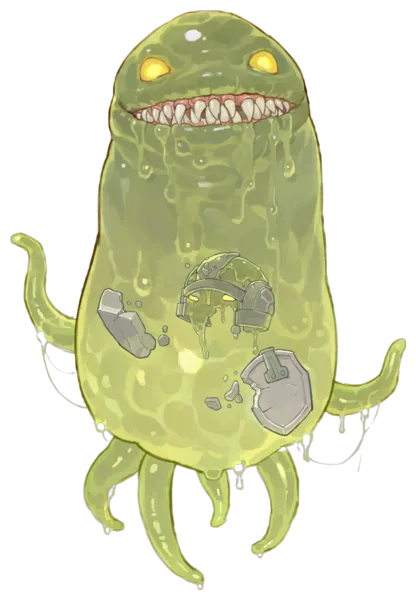
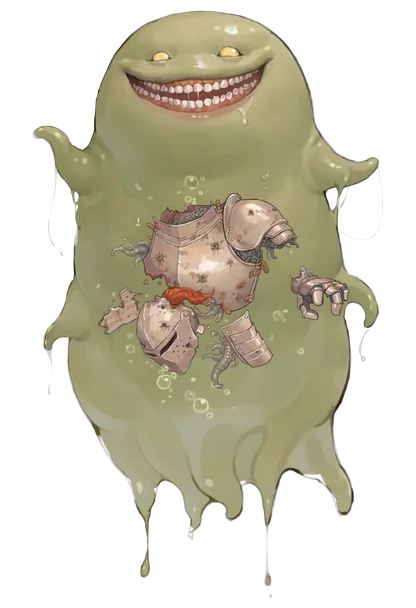
Rename the second batch to fit the setting; redraw 噬铁软泥 and 交际花
Abilities and numbers are unchanged. Names that ended in 者 or were not
a person (窥伺刀, 终止符) become archetypes: 攻城锤手 (breaks barriers),
噬铁软泥 (corrodes armour), 终宴侍女 (serves the last course: +4 when
one enemy is left), 影子 (strikes whoever steps into the light), 守钟人
(comes alive at the third bell), 交际花 (draws every eye: taunt) and
双子. 金库守卫 already fit and stays.

噬铁软泥 is redrawn in the gluttony olive instead of neon yellow-green.
交际花 is redrawn as a grown masquerade courtesan so she no longer
reads as a second 双子.

diff --git a/sin-squad-core/src/battle/engine.ts b/sin-squad-core/src/battle/engine.ts
@@ -203,11 +203,11 @@ class Battle {
               break;
           }
         }
-        // 双生誓：站在 2 号位、两侧都有队友，全队血 +2
+        // 双子：站在 2 号位、两侧都有队友，全队血 +2
         const twin = this.teams[seat][1];
-        if (twin.exists && twin.def!.name === "双生誓" && this.teams[seat][0].exists && this.teams[seat][2].exists) {
+        if (twin.exists && twin.def!.name === "双子" && this.teams[seat][0].exists && this.teams[seat][2].exists) {
           for (const x of this.teams[seat]) if (x.exists) x.hp += 2;
-          this.trig(twin, "双生誓", "两侧都有队友：全队血 +2");
+          this.trig(twin, "双子", "两侧都有队友：全队血 +2");
         }
         const healer = this.teams[seat].find((u) => u.exists && u.def!.name === "隐修士");
         if (me.opsPaid === 0 && healer) {
@@ -447,9 +447,9 @@ class Battle {
         u.switched = true;
         const foes = this.alive(other(seat));
         if (!foes.length) return;
-        // 诱导者嘲讽：转线过来的敌人先打它，否则打血最少的
-        const taunt = foes.find((x) => this.abilityOn(x, "诱导者"));
-        if (taunt) this.trig(taunt, "诱导者", "嘲讽：转线的敌人改打它");
+        // 交际花嘲讽：转线过来的敌人先打它，否则打血最少的
+        const taunt = foes.find((x) => this.abilityOn(x, "交际花"));
+        if (taunt) this.trig(taunt, "交际花", "嘲讽：转线的敌人改打它");
         target = taunt ?? minBy(foes, (x) => x.hp);
       }
     }
@@ -507,9 +507,9 @@ class Battle {
     if (this.has("P23") && health(a) < 0.3) d += Math.max(1, Math.floor(d * 0.25));
     // 人物能力的攻击加值（先加，再按下面的翻倍类效果乘）
     const bonus = (name: string, n: number, text: string) => { d += n; this.trig(a, name, text); };
-    if (this.abilityOn(a, "终餐者") && this.alive(other(a.seat)).length === 1) bonus("终餐者", 4, "收割：攻 +4");
-    if (t.seat !== a.seat && this.abilityOn(a, "窥伺刀") && this.bet[t.seat].revealedPos === t.pos) bonus("窥伺刀", 2, "看穿亮牌：攻 +2");
-    if (this.abilityOn(a, "终止符") && r >= 3) bonus("终止符", 3, "后期发力：攻 +3");
+    if (this.abilityOn(a, "终宴侍女") && this.alive(other(a.seat)).length === 1) bonus("终宴侍女", 4, "收割：攻 +4");
+    if (t.seat !== a.seat && this.abilityOn(a, "影子") && this.bet[t.seat].revealedPos === t.pos) bonus("影子", 2, "看穿亮牌：攻 +2");
+    if (this.abilityOn(a, "守钟人") && r >= 3) bonus("守钟人", 3, "后期发力：攻 +3");
     if (this.abilityOn(a, "无瑕刺客") && a.hp >= a.maxHp) { d *= 2; this.trig(a, "无瑕刺客", "满血：攻击翻倍"); }
     if (this.abilityOn(a, "清算者") && r === 1 && this.bet[other(a.seat)].betOrRaiseCount > 0) { d *= 2; this.trig(a, "清算者", "对手加过注：首轮翻倍"); }
     if (this.has("P11") && (no === 3 || no === 6)) d *= 2;
@@ -552,12 +552,12 @@ class Battle {
       if (this.has("P04") && health(dst) > 0.75) armor = Math.floor(armor / 2);
       let real = Math.max(0, s.amount - armor);
       s.hit.landed = true;
-      // 酸液兽：打中带护甲的敌人，腐蚀掉它 1 点护甲（每人只被腐蚀一次；这一段还按原来的护甲算）
-      if (src.seat !== dst.seat && armorOf(dst) > 0 && !dst.flags.has("酸蚀") && this.abilityOn(src, "酸液兽")) {
+      // 噬铁软泥：打中带护甲的敌人，腐蚀掉它 1 点护甲（每人只被腐蚀一次；这一段还按原来的护甲算）
+      if (src.seat !== dst.seat && armorOf(dst) > 0 && !dst.flags.has("酸蚀") && this.abilityOn(src, "噬铁软泥")) {
         dst.flags.add("酸蚀");
         if (dst.armorBase > 0) dst.armorBase--;
         else dst.armorEquip--;
-        this.trig(src, "酸液兽", `腐蚀：${dst.def!.name}护甲 -1`);
+        this.trig(src, "噬铁软泥", `腐蚀：${dst.def!.name}护甲 -1`);
       }
       // 所有伤害都是整数：减半向下取整，+25% 四舍五入
       if (this.has("A07") && dst.attacks === 0) real = Math.floor(real / 2);
@@ -659,11 +659,11 @@ class Battle {
   }
 
   private onBarrierBroken(t: Unit, attacker: Unit, dmg: Map<Unit, number>) {
-    // 破阵者：第一次打破敌人的屏障，攻 +2
-    if (attacker.seat !== t.seat && !attacker.flags.has("破阵") && this.abilityOn(attacker, "破阵者")) {
+    // 攻城锤手：第一次打破敌人的屏障，攻 +2
+    if (attacker.seat !== t.seat && !attacker.flags.has("破阵") && this.abilityOn(attacker, "攻城锤手")) {
       attacker.flags.add("破阵");
       attacker.atk += 2;
-      this.trig(attacker, "破阵者", "破盾：攻 +2");
+      this.trig(attacker, "攻城锤手", "破盾：攻 +2");
     }
     if (this.has("P01")) t.pendingBonus += 3;
     if (this.has("P05")) dmg.set(t, (dmg.get(t) ?? 0) + 1);

diff --git a/sin-squad-core/test/abilities.test.ts b/sin-squad-core/test/abilities.test.ts
@@ -26,31 +26,31 @@ describe("第二批人物", () => {
     expect(battle(solo("GR4", { stack: 60 }), solo("GR2", { stack: 80 })).start[0][0].barrier).toBe(0);
   });
 
-  it("双生誓：站在 2 号位、两侧都有队友，全队血 +2", () => {
+  it("双子：站在 2 号位、两侧都有队友，全队血 +2", () => {
     const mid = battle(team(["GR1", "LU5", "GL3"]), solo("GR2")).start[0];
     expect(mid.map((u) => u.hp)).toEqual([hp("GR1") + 2, hp("LU5") + 2, hp("GL3") + 2]);
     const side = battle(team(["LU5", "GR1", "GL3"]), solo("GR2")).start[0];
     expect(side.map((u) => u.hp)).toEqual([hp("LU5"), hp("GR1"), hp("GL3")]);
   });
 
-  it("窥伺刀：打被亮出的敌人攻 +2", () => {
+  it("影子：打被亮出的敌人攻 +2", () => {
     const seen = battle(solo("EN4"), team(["GR4", null, null], [null, null, null], { revealedPos: 0 }));
     const hidden = battle(solo("EN4"), team(["GR4", null, null], [null, null, null], { revealedPos: 1 }));
     expect(afterHit(seen, 1)[1][0].hp).toBe(hp("GR4") - dealt("EN4", atk("EN4") + 2, arm("GR4")));
     expect(afterHit(hidden, 1)[1][0].hp).toBe(hp("GR4") - dealt("EN4", atk("EN4"), arm("GR4")));
   });
 
-  it("终餐者：敌方只剩一人时攻 +4", () => {
+  it("终宴侍女：敌方只剩一人时攻 +4", () => {
     expect(afterHit(battle(solo("GL5"), solo("GR4")), 1)[1][0].hp).toBe(hp("GR4") - dealt("GL5", atk("GL5") + 4, arm("GR4")));
     expect(afterHit(battle(solo("GL5"), team(["GR4", "GR4", null])), 1)[1][0].hp).toBe(hp("GR4") - dealt("GL5", atk("GL5"), arm("GR4")));
   });
 
-  it("终止符：第三轮起才加攻", () => {
+  it("守钟人：第三轮起才加攻", () => {
     const rng = new Rng(7);
     let seen = false;
     for (let i = 0; i < 400; i++) {
       for (const e of randomRun(rng).events) {
-        if (e.type !== "trigger" || e.name !== "终止符") continue;
+        if (e.type !== "trigger" || e.name !== "守钟人") continue;
         expect(e.round).toBeGreaterThanOrEqual(3);
         seen = true;
       }
@@ -58,25 +58,25 @@ describe("第二批人物", () => {
     expect(seen).toBe(true);
   });
 
-  it("酸液兽：打中带护甲的人，腐蚀掉 1 点护甲（每人一次）", () => {
+  it("噬铁软泥：打中带护甲的人，腐蚀掉 1 点护甲（每人一次）", () => {
     const r = battle(solo("GL4"), solo("GR4"));
     expect(afterHit(r, 1)[1][0].armor).toBe(arm("GR4") - 1);
-    expect(r.events.filter((e) => e.type === "trigger" && e.name === "酸液兽")).toHaveLength(1);
+    expect(r.events.filter((e) => e.type === "trigger" && e.name === "噬铁软泥")).toHaveLength(1);
   });
 
-  it("破阵者：第一次打破屏障，攻 +2（只一次）", () => {
+  it("攻城锤手：第一次打破屏障，攻 +2（只一次）", () => {
     const r = battle(solo("WR4"), solo("PR2"));
-    expect(fired(r, "破阵者")).toBe(true);
+    expect(fired(r, "攻城锤手")).toBe(true);
     expect(afterHit(r, 1)[0][0].atk).toBe(atk("WR4") + 2);
-    expect(r.events.filter((e) => e.type === "trigger" && e.name === "破阵者")).toHaveLength(1);
+    expect(r.events.filter((e) => e.type === "trigger" && e.name === "攻城锤手")).toHaveLength(1);
   });
 
-  it("诱导者：转线的敌人优先打它", () => {
-    // 我方 1 号位的对位是空的，转线后本该打血最少的豪商，被诱导者嘲讽
+  it("交际花：转线的敌人优先打它", () => {
+    // 我方 1 号位的对位是空的，转线后本该打血最少的豪商，被交际花嘲讽
     const r = battle(solo("WR3"), team([null, "GR1", "LU4"]));
     const first = r.events.find((e) => e.type === "attack" && e.seat === 0);
     expect(first?.type === "attack" && first.targetPos).toBe(2);
-    expect(fired(r, "诱导者")).toBe(true);
+    expect(fired(r, "交际花")).toBe(true);
   });
 
   it("全部人物混打几千场：不出错、血量和攻都是整数", () => {

diff --git a/sin-squad-core/src/content/characters.ts b/sin-squad-core/src/content/characters.ts
@@ -56,21 +56,21 @@ export const CHARACTERS: readonly CharacterDef[] = [
     ability: "开战时，对位敌人第一轮改打它自己的相邻队友", tag: "让敌人内讧", stage: 2 },
 
   // 第二批：每罪补一两名，能力都和原有 21 人不重复（破盾、筹码领先、腐蚀护甲、终局收割、看穿亮牌、后期发力、嘲讽、布阵站位）
-  { id: "WR4", name: "破阵者", sin: "愤怒", atk: 4, hp: 6, shape: "heavy", armor: 0, barrier: 0,
+  { id: "WR4", name: "攻城锤手", sin: "愤怒", atk: 4, hp: 6, shape: "heavy", armor: 0, barrier: 0,
     ability: "第一次打破敌人的屏障后，攻 +2", tag: "破盾", stage: 1 },
   { id: "GR4", name: "金库守卫", sin: "贪婪", atk: 2, hp: 9, shape: "heavy", armor: 1, barrier: 0,
     ability: "开战时筹码领先：屏障 +1", tag: "守财", stage: 1 },
-  { id: "GL4", name: "酸液兽", sin: "暴食", atk: 3, hp: 8, shape: "multi", armor: 0, barrier: 0,
+  { id: "GL4", name: "噬铁软泥", sin: "暴食", atk: 3, hp: 8, shape: "multi", armor: 0, barrier: 0,
     ability: "打中带护甲的敌人时，使它护甲 -1（每个敌人一次）", tag: "腐蚀", stage: 1 },
-  { id: "GL5", name: "终餐者", sin: "暴食", atk: 4, hp: 7, shape: "multi", armor: 0, barrier: 0,
+  { id: "GL5", name: "终宴侍女", sin: "暴食", atk: 4, hp: 7, shape: "multi", armor: 0, barrier: 0,
     ability: "敌方只剩一人时攻 +4", tag: "收割", stage: 2 },
-  { id: "EN4", name: "窥伺刀", sin: "嫉妒", atk: 4, hp: 7, shape: "heavy", armor: 0, barrier: 0,
+  { id: "EN4", name: "影子", sin: "嫉妒", atk: 4, hp: 7, shape: "heavy", armor: 0, barrier: 0,
     ability: "攻击被亮出的敌人时攻 +2", tag: "看穿亮牌", stage: 1 },
-  { id: "SL4", name: "终止符", sin: "怠惰", atk: 4, hp: 8, shape: "heavy", armor: 0, barrier: 0,
+  { id: "SL4", name: "守钟人", sin: "怠惰", atk: 4, hp: 8, shape: "heavy", armor: 0, barrier: 0,
     ability: "第三轮起攻 +3", tag: "后期发力", stage: 2 },
-  { id: "LU4", name: "诱导者", sin: "色欲", atk: 3, hp: 6, shape: "heavy", armor: 0, barrier: 1,
+  { id: "LU4", name: "交际花", sin: "色欲", atk: 3, hp: 6, shape: "heavy", armor: 0, barrier: 1,
     ability: "嘲讽：转线后的敌人优先攻击它", tag: "嘲讽", stage: 2 },
-  { id: "LU5", name: "双生誓", sin: "色欲", atk: 3, hp: 9, shape: "multi", armor: 0, barrier: 0,
+  { id: "LU5", name: "双子", sin: "色欲", atk: 3, hp: 9, shape: "multi", armor: 0, barrier: 0,
     ability: "站在 2 号位、两侧都有队友时，开战全队血 +2", tag: "布阵", stage: 2 },
 ];
 

diff --git a/sin-squad-core/src/battle/unit.ts b/sin-squad-core/src/battle/unit.ts
@@ -49,7 +49,7 @@ export interface Unit {
   barrierEchoed: boolean;
   regenRounds: number;
   deathRound: number | null;
-  /** 只触发一次的人物能力状态（例如破阵者“第一次打破屏障”、酸液兽腐蚀过谁）。 */
+  /** 只触发一次的人物能力状态（例如攻城锤手“第一次打破屏障”、噬铁软泥腐蚀过谁）。 */
   flags: Set<string>;
 }
 

diff --git a/sin-squad-core/README.md b/sin-squad-core/README.md
@@ -117,7 +117,7 @@ npm run build:web                 # 打包到仓库根目录的 sin-squad-v3/
 - **先后手**：先手一方胜率约 51%，碰撞让先手几乎没有优势。
 - **开局胜率**：最差一成约 38%、中位 50%、最好一成约 63%，98.5% 落在 30%–80%，已达标。
 - **人物胜率**（29 名）：44.6%–54.6%。食腐鸦、痴情骑士最高（54.6%），密探最低（44.6%）、孔雀 45.0%；密探、孔雀的价值依赖情报和亮牌决策，随机模拟会低估它们。
-- **第二批 8 名**：破阵者（第一次打破屏障攻 +2）、金库守卫（开战时筹码领先得屏障）、酸液兽（腐蚀护甲）、终餐者（敌方只剩一人时攻 +4）、窥伺刀（打被亮出的人攻 +2）、终止符（第三轮起攻 +3）、诱导者（嘲讽转线的敌人）、双生誓（2 号位两侧有队友时全队血 +2）。从一批 35 名候选里筛出，和首批能力重复、说明不清、效果平淡或会让对局更拖的都没收；胜率 46.9%–54.4%。
+- **第二批 8 名**：攻城锤手（第一次打破屏障攻 +2）、金库守卫（开战时筹码领先得屏障）、噬铁软泥（腐蚀护甲）、终宴侍女（敌方只剩一人时攻 +4）、影子（打被亮出的人攻 +2）、守钟人（第三轮起攻 +3）、交际花（嘲讽转线的敌人）、双子（2 号位两侧有队友时全队血 +2）。从一批 35 名候选里筛出，和首批能力重复、说明不清、效果平淡或会让对局更拖的都没收；胜率 46.9%–54.4%。
 - **平局约 9%**：同一次碰撞里双方同时达成一律算平局，约四成是双方全灭，其余多是“第一滴血”这类规则下一次碰撞各倒一人。
 - **先击倒的一方约 77% 会赢**（同时出手时是 82%）。还需要“复仇”类人物能力来进一步削弱滚雪球。
 - **牌桌太短**：电脑对手很快全押，一张牌桌平均只打 5–7 手，远少于设计的十几到二十手。需要调整携入金额、底注或下注上限，也需要更好的电脑对手。
